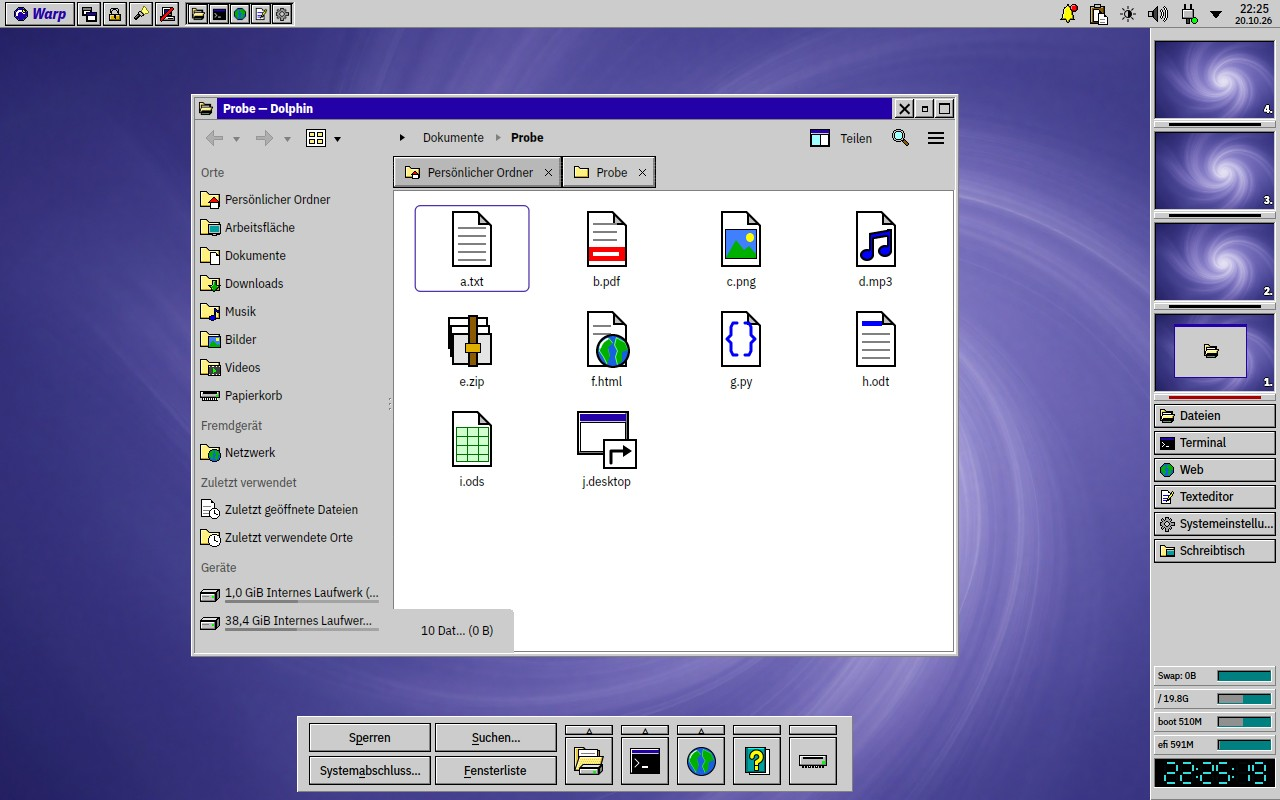
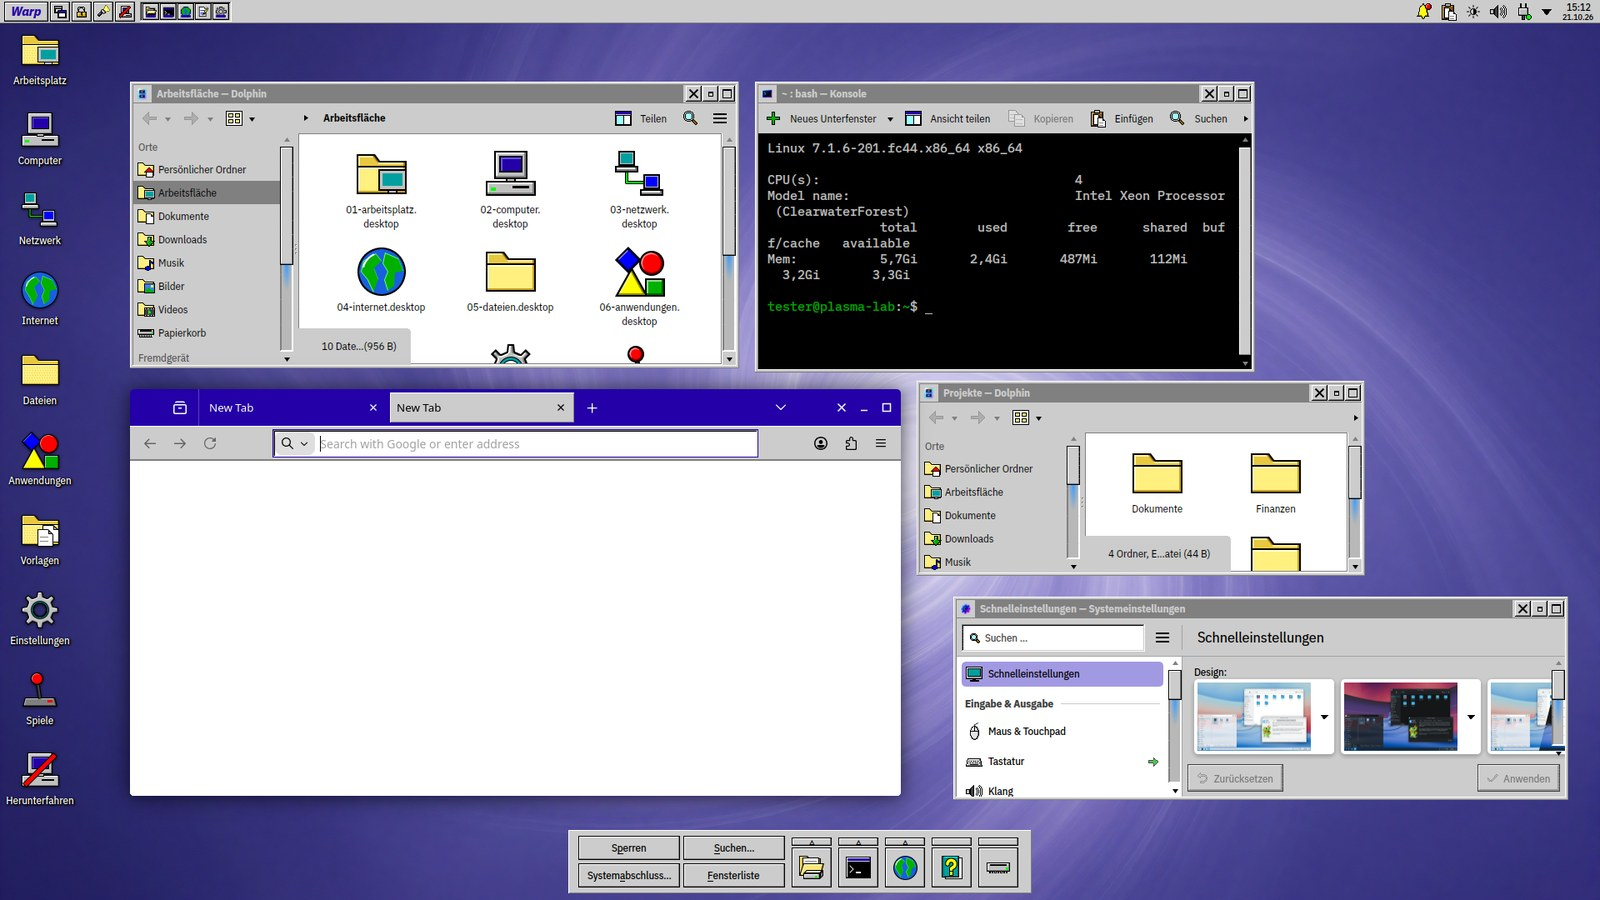
Warp Legacy: neue Vorschaubilder und README-Fotos
Beide Varianten in der Anordnung für Bildschirmfotos (Warp Bar oben,
LaunchPad unten, demo-scene.sh --panels screenshots) bei 1920x1080:
previews/ für Systemeinstellungen › Globales Design, screenshots/ für
die README.

diff --git a/README.md b/README.md
@@ -3,8 +3,8 @@
 OS/2 Warp 4 for KDE Plasma 6, in two variants: the classic Warp 4 grey,
 and **Neon**, OS/2 at night with cyan and violet glowing edges.
 
-![Warp Legacy](screenshots/stufe9-layout-klassisch.png)
-![Warp Legacy Neon](screenshots/stufe6-neon-icons.png)
+![Warp Legacy](screenshots/warp-classic-2026-10.png)
+![Warp Legacy Neon](screenshots/warp-neon-2026-10.png)
 
 Not affiliated with IBM, Arca Noae or Stardock. "OS/2" and "Warp" are
 trademarks of IBM; nothing of IBM's or Stardock's is included: the icons,
